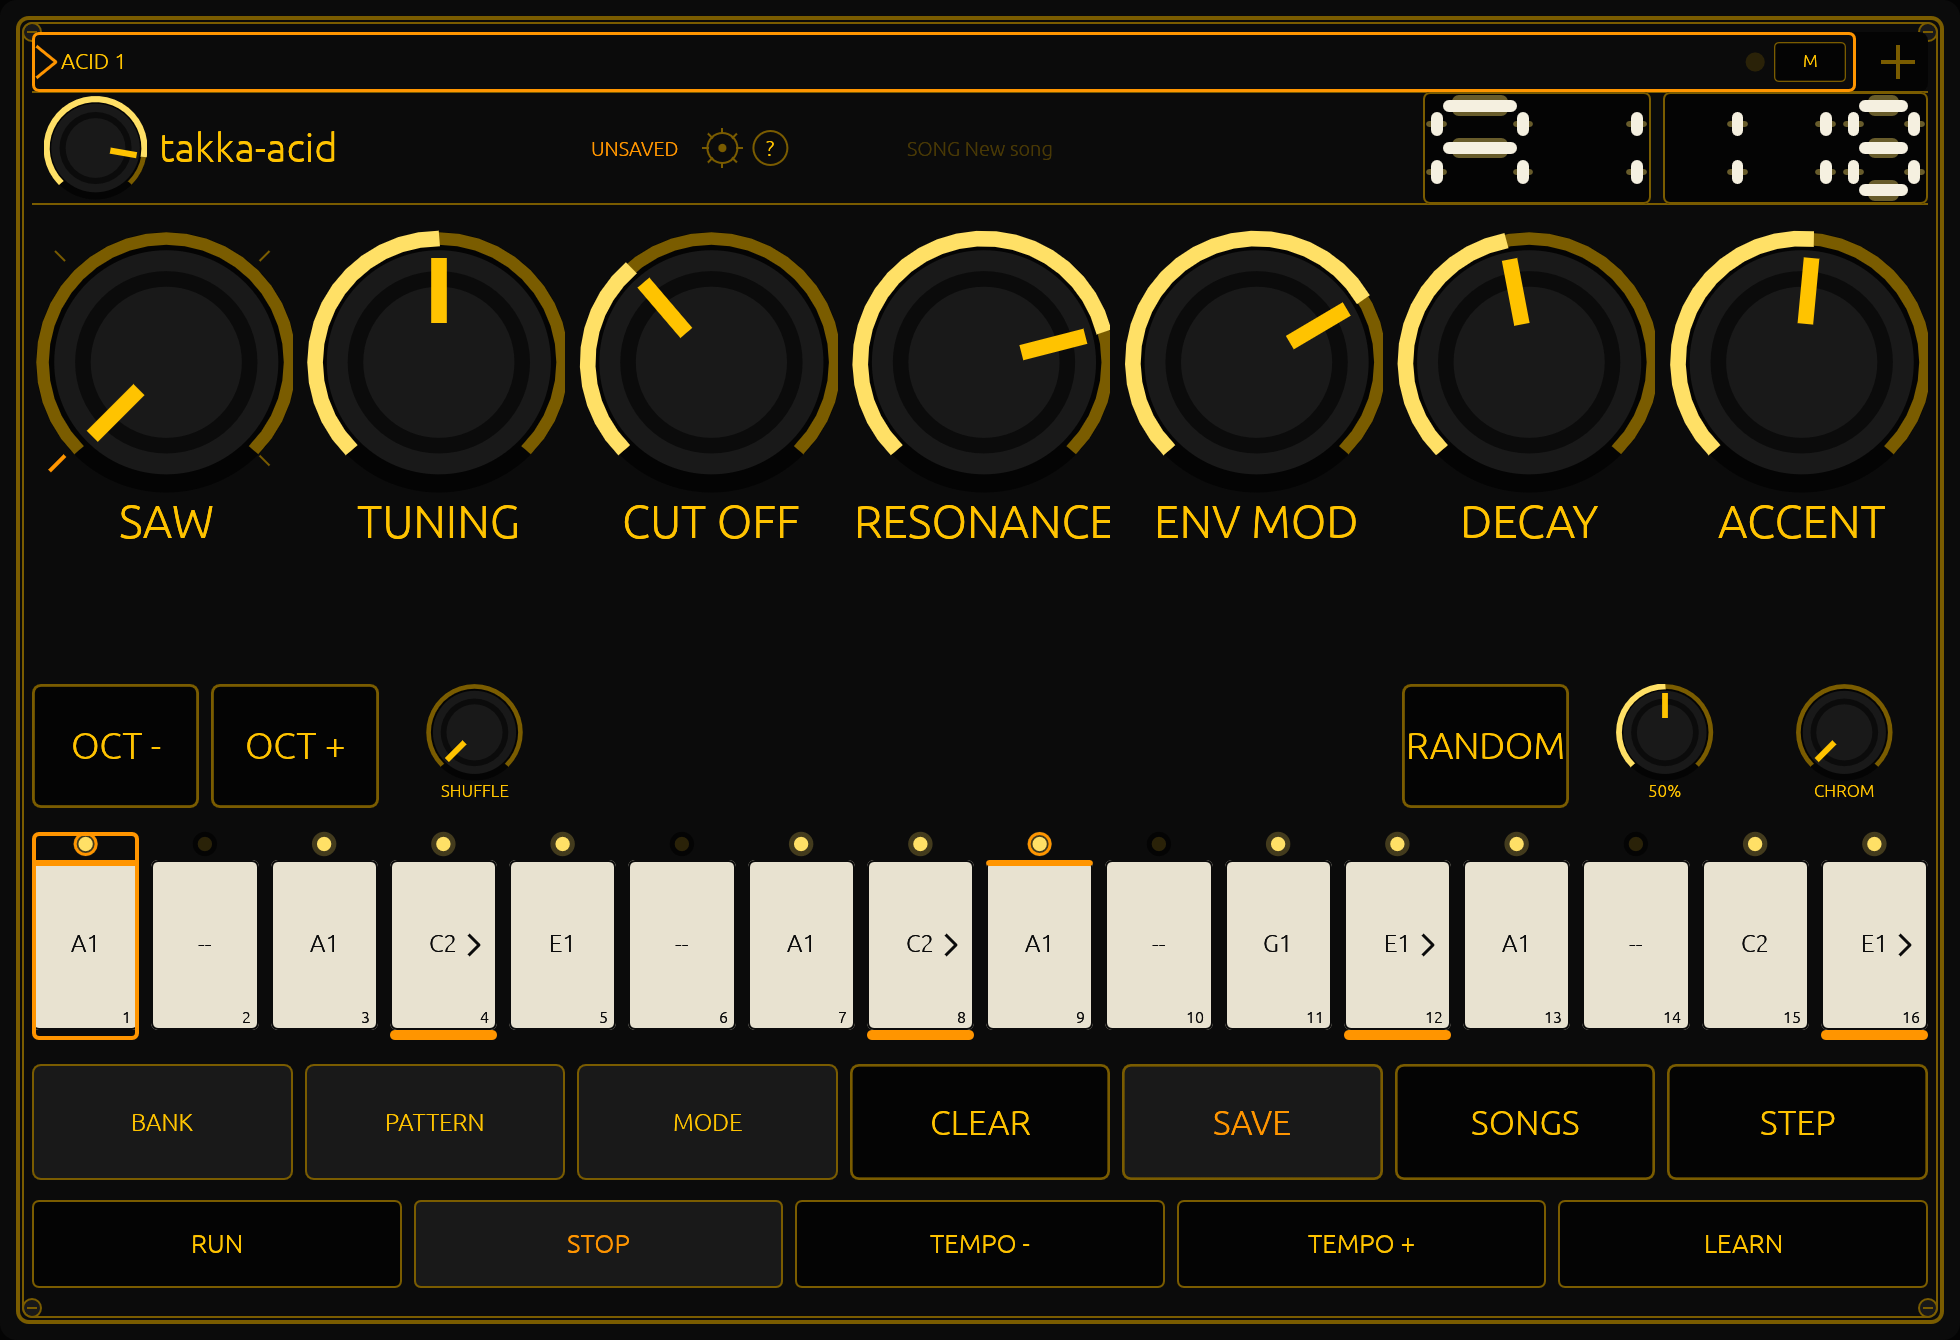
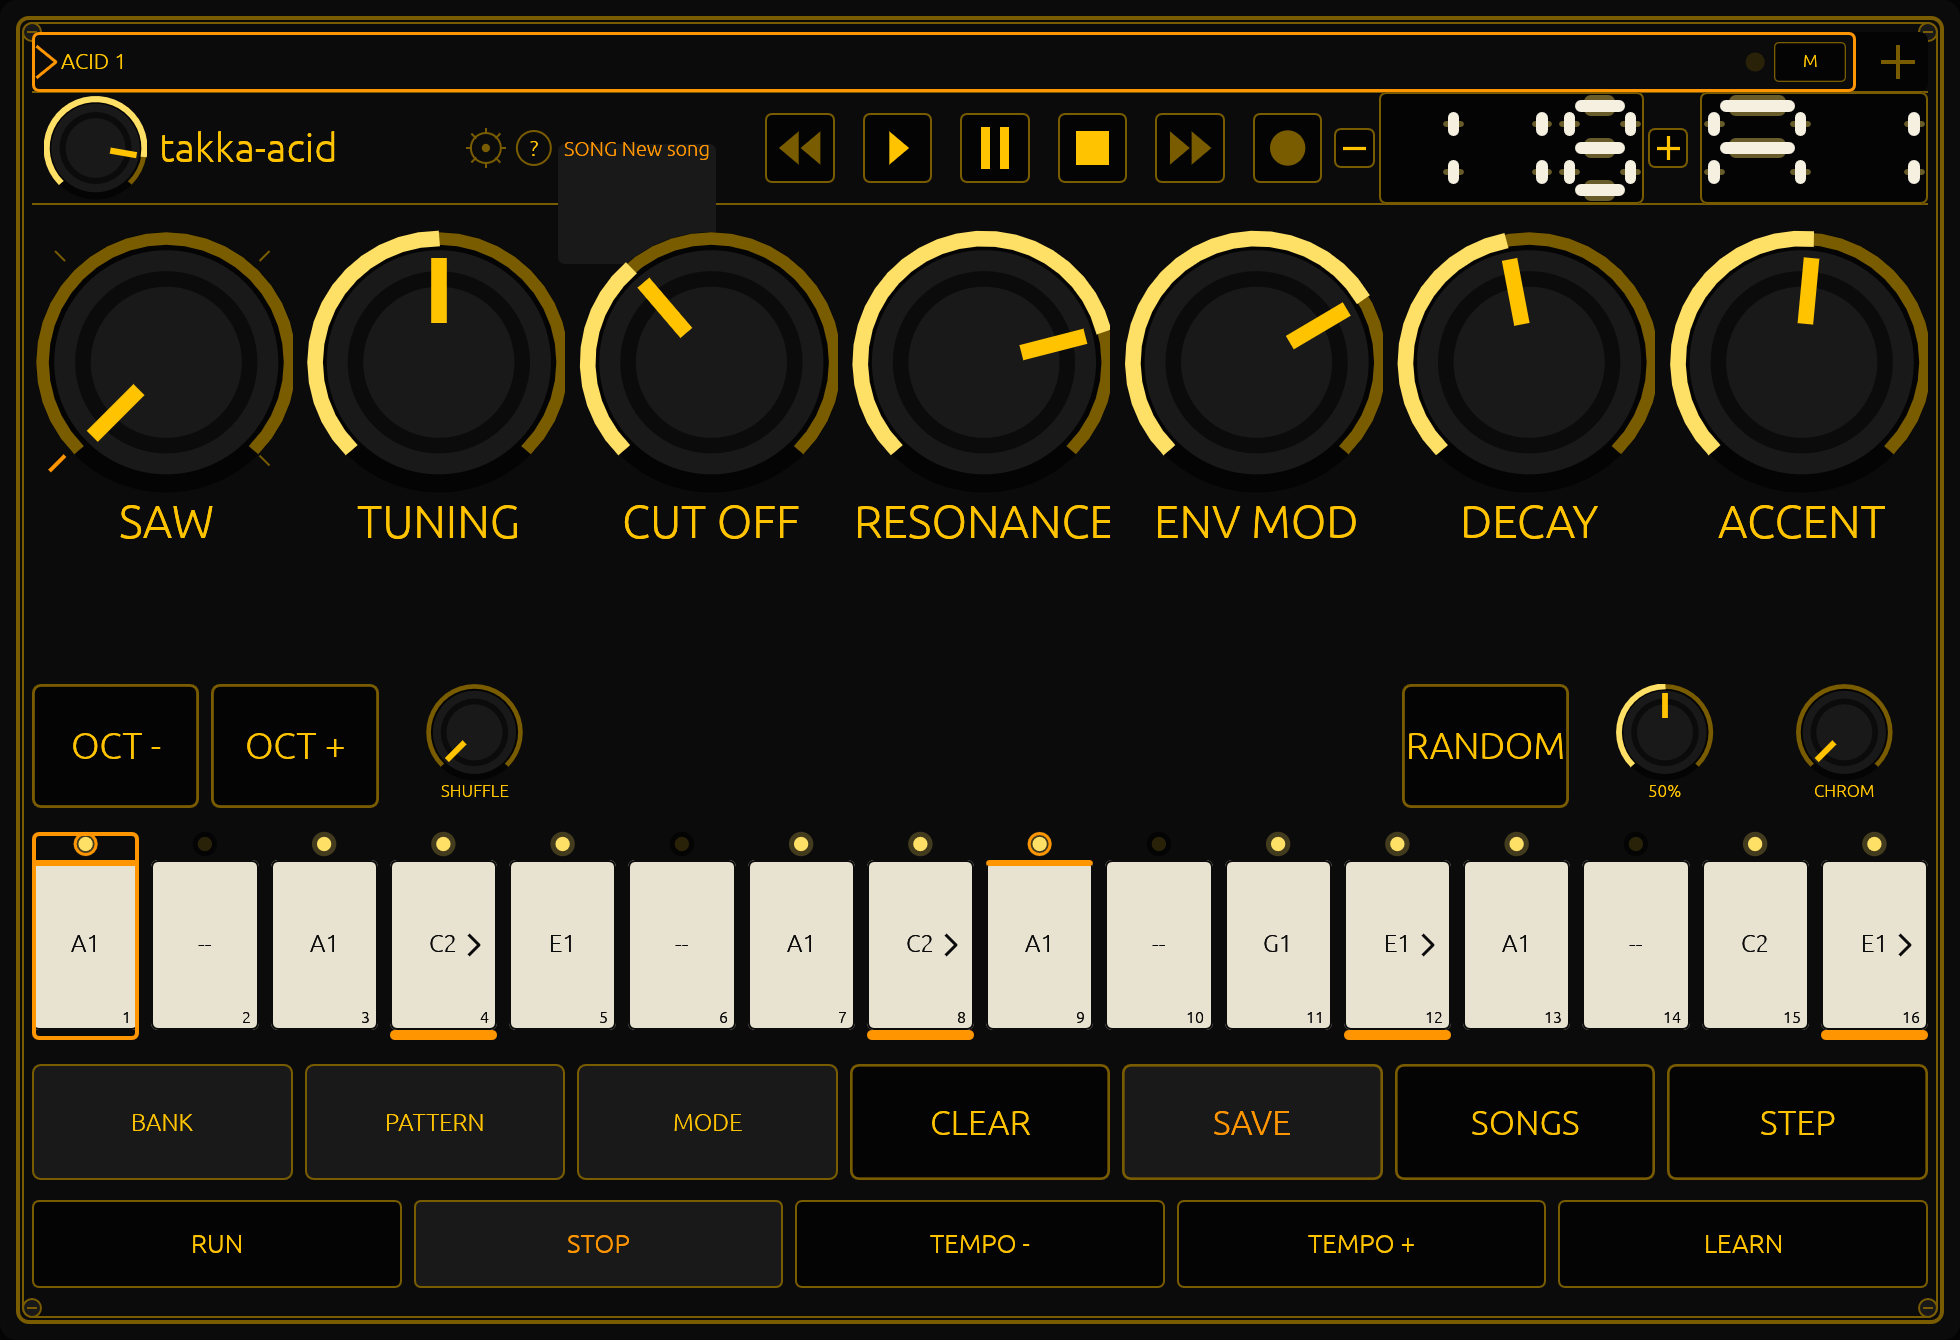
docs(guide): the band's pictures, and the trap that made them the wrong size all round
The three screenshots of the top band, retaken at 1960 x 1340 in the new order — first-sound, running, and the top-strip crop —
with their rows in img/README.md updated: the name is on a lit plate while unsaved, and `SAVED`/`UNSAVED` no longer exists.

The pictures were 1280 x 800 for a whole round, and the cause was not the recipe: something on this machine pre-starts Xvfb at
1280 x 800 on display numbers, and asking a taken display for a bigger screen fails quietly ("Server is already active") while
the app and the grab both use the small one. AGENTS.md now says to check `xdotool getdisplaygeometry` before trusting a grab, and
that a window that does not measure 1960x1340 is a wrong picture no crop can fix.

Round 3a's Progress closes with task 4 done: the band spread out, the name carrying the save state, the order the player asked
for, and the documents in step.

Changed region(s): [[0.249, 0.0612, 0.9648, 0.153]]

diff --git a/docs/guide/src/img/README.md b/docs/guide/src/img/README.md
@@ -12,7 +12,7 @@ the build: the pictures are committed PNGs, and this note is what makes them rep
 - **Scratch data directory:** `TAKKA_ACID_DATA_DIR=/tmp/takka-guide-46`, emptied before the first launch, so the session
   is a first run — the Slow Acid demo, named "New song", unsaved, pattern `A1`, 118 BPM. The theme round added a second
   device on `FESTIVAL CITRUS`, which is why the strip pictures show a teal cell beside a black one.
-- **Display:** offscreen, `Xvfb :82 -screen 0 2000x1400x24`, with
+- **Display:** offscreen, `Xvfb :90 -screen 0 2000x1400x24`, with
   `DISPLAY=:82 WINIT_X11_SCALE_FACTOR=2 LIBGL_ALWAYS_SOFTWARE=1 WAYLAND_DISPLAY=`. The window is the design size in
   logical pixels (980 × 670) and renders at 1960 × 1340, so the silkscreen stays legible when a page scales it down.
 - **Grab:** `import -window <id> NAME.png` — the whole window, which is 1960 × 1340. A crop is a second grab of the same
@@ -29,7 +29,7 @@ the build: the pictures are committed PNGs, and this note is what makes them rep
 
 | Image | State | How it was reached |
 |---|---|---|
-| `img/first-sound.png` | a first run: one device in the strip, `UNSAVED`, `SONG New song`, pattern `A1`, the Slow Acid demo, stopped | launch, wait for the window |
+| `img/first-sound.png` | a first run: one device in the strip, `SONG New song` on its lit plate (the session is unsaved), pattern `A1`, the Slow Acid demo, stopped | launch, wait for the window |
 | `img/running.png` | the transport running, `RUN` lit rather than `STOP` | `space` from the first-sound state |
 | `img/help-card.png` | the help card over the panel | `F1` |
 | `img/settings-card.png` | the settings card, `MIDI IN` naming the port in use | `F2` |
@@ -40,7 +40,7 @@ the build: the pictures are committed PNGs, and this note is what makes them rep
 | `img/two-devices.png` | two devices, `ACID 1` black and selected, `ACID 2` on `FESTIVAL CITRUS` | from the picker, click `ACID`; `ctrl+2`; `F3`; click `COLOUR`; click the `FESTIVAL CITRUS` row; `Escape`; `ctrl+1` |
 | `img/strip.png` | the same strip, cropped: a black cell, a teal one, and `+` | `-crop 1960x76+0+24` in the state above |
 | `img/clipboard-notice.png` | the status line reading `pasted A1 into A2` | `ctrl+c`, `shift+Right`, `ctrl+v`, grabbed within the second, before the notice clears |
-| `img/top-strip.png` | the top strip: volume, wordmark, `SAVED`/`UNSAVED`, gear, `?`, song name, pattern and tempo | `-crop 1960x112+0+92` |
+| `img/top-strip.png` | the top strip in its 3a order: volume, wordmark, gear, `?`, the song name on its plate, the tape deck, the tempo stepper, the pattern readout | `-crop 1960x112+0+92 +repage` |
 | `img/knob-row.png` | the seven tone knobs and their captions | `-crop 1960x480+0+200` |
 | `img/step-row.png` | the sixteen step keys, their LEDs and their numbers | `-crop 1960x280+0+792` |
 | `img/switches.png` | `BANK PATTERN MODE CLEAR SAVE SONGS STEP` | `-crop 1960x132+0+1056` |

diff --git a/AGENTS.md b/AGENTS.md
@@ -62,6 +62,13 @@ DISPLAY=:86 WINIT_X11_SCALE_FACTOR=2 LIBGL_ALWAYS_SOFTWARE=1 WAYLAND_DISPLAY= \
 `TAKKA_ACID_DATA_DIR` must be a fresh directory so the picture shows a first run and nothing of the photographer's own.
 The window is 1960 × 1340 (980 × 670 logical, doubled): `xdotool search --name takka` finds it, `xdotool mousemove X Y` and
 `xdotool click 1` drive it with X and Y **doubled** from logical coordinates, and `import -window <id> NAME.png` grabs it.
+
+**Check the display before you trust a grab.** On this machine something pre-starts `Xvfb` on display numbers at **1280 × 800**,
+and a request for a bigger screen on a taken display fails quietly ("Server is already active") while the app and the grab both
+use the small one — a whole round's screenshots were 1280 × 800 for that reason. So: pick a display, run
+`DISPLAY=:N xdotool getdisplaygeometry`, and only launch the app if it says `2000 1400` or more; `xdotool search --name takka`
+followed by `xdotool getwindowgeometry` must then say `1960x1340`. If it does not, the picture is the wrong size and no amount
+of cropping will fix it.
 A crop is a second grab with `-crop`, never a cut-out of a finished image. Rect coordinates come from the layout
 (`ui/layout.rs`, `ui/strip.rs`, `ui/device_card.rs`), not from reading a screenshot; and park the pointer away from the panel
 before a grab, or a hover tooltip lands in the book.

diff --git a/plans/phase 3/02-the-top-band.md b/plans/phase 3/02-the-top-band.md
@@ -148,3 +148,12 @@ The capture recipe in `AGENTS.md` no longer produces a 1960 × 1340 window on th
 says so, and so does the grab. Every screenshot of this band is therefore of the wrong size and the wrong scale, and the recipe
 needs correcting (the winit/eframe version in use does not honour that variable the way the note assumes) before task 4 can be
 finished. The three images are **not** retaken, and this round stays unpushed until they are.
+
+**The blocker, resolved.** The recipe was right and the *display* was wrong: something on this machine pre-starts `Xvfb` at
+1280 × 800 on display numbers, and a request for a bigger screen on a taken display fails quietly ("Server is already active")
+while the app and the grab both use the small one. `DISPLAY=:90 xdotool getdisplaygeometry` says `2000 1400`, the window comes
+out 1960 × 1340, and the three pictures were retaken there. The trap is written into `AGENTS.md`'s capture recipe so the next
+round checks the geometry before trusting a grab.
+
+- [x] **Task 4 — the documents.** The three pictures retaken at 1960 × 1340 in the new order (`top-strip.png`,
+      `first-sound.png`, `running.png`), their rows in `img/README.md` updated, and the capture trap recorded.
